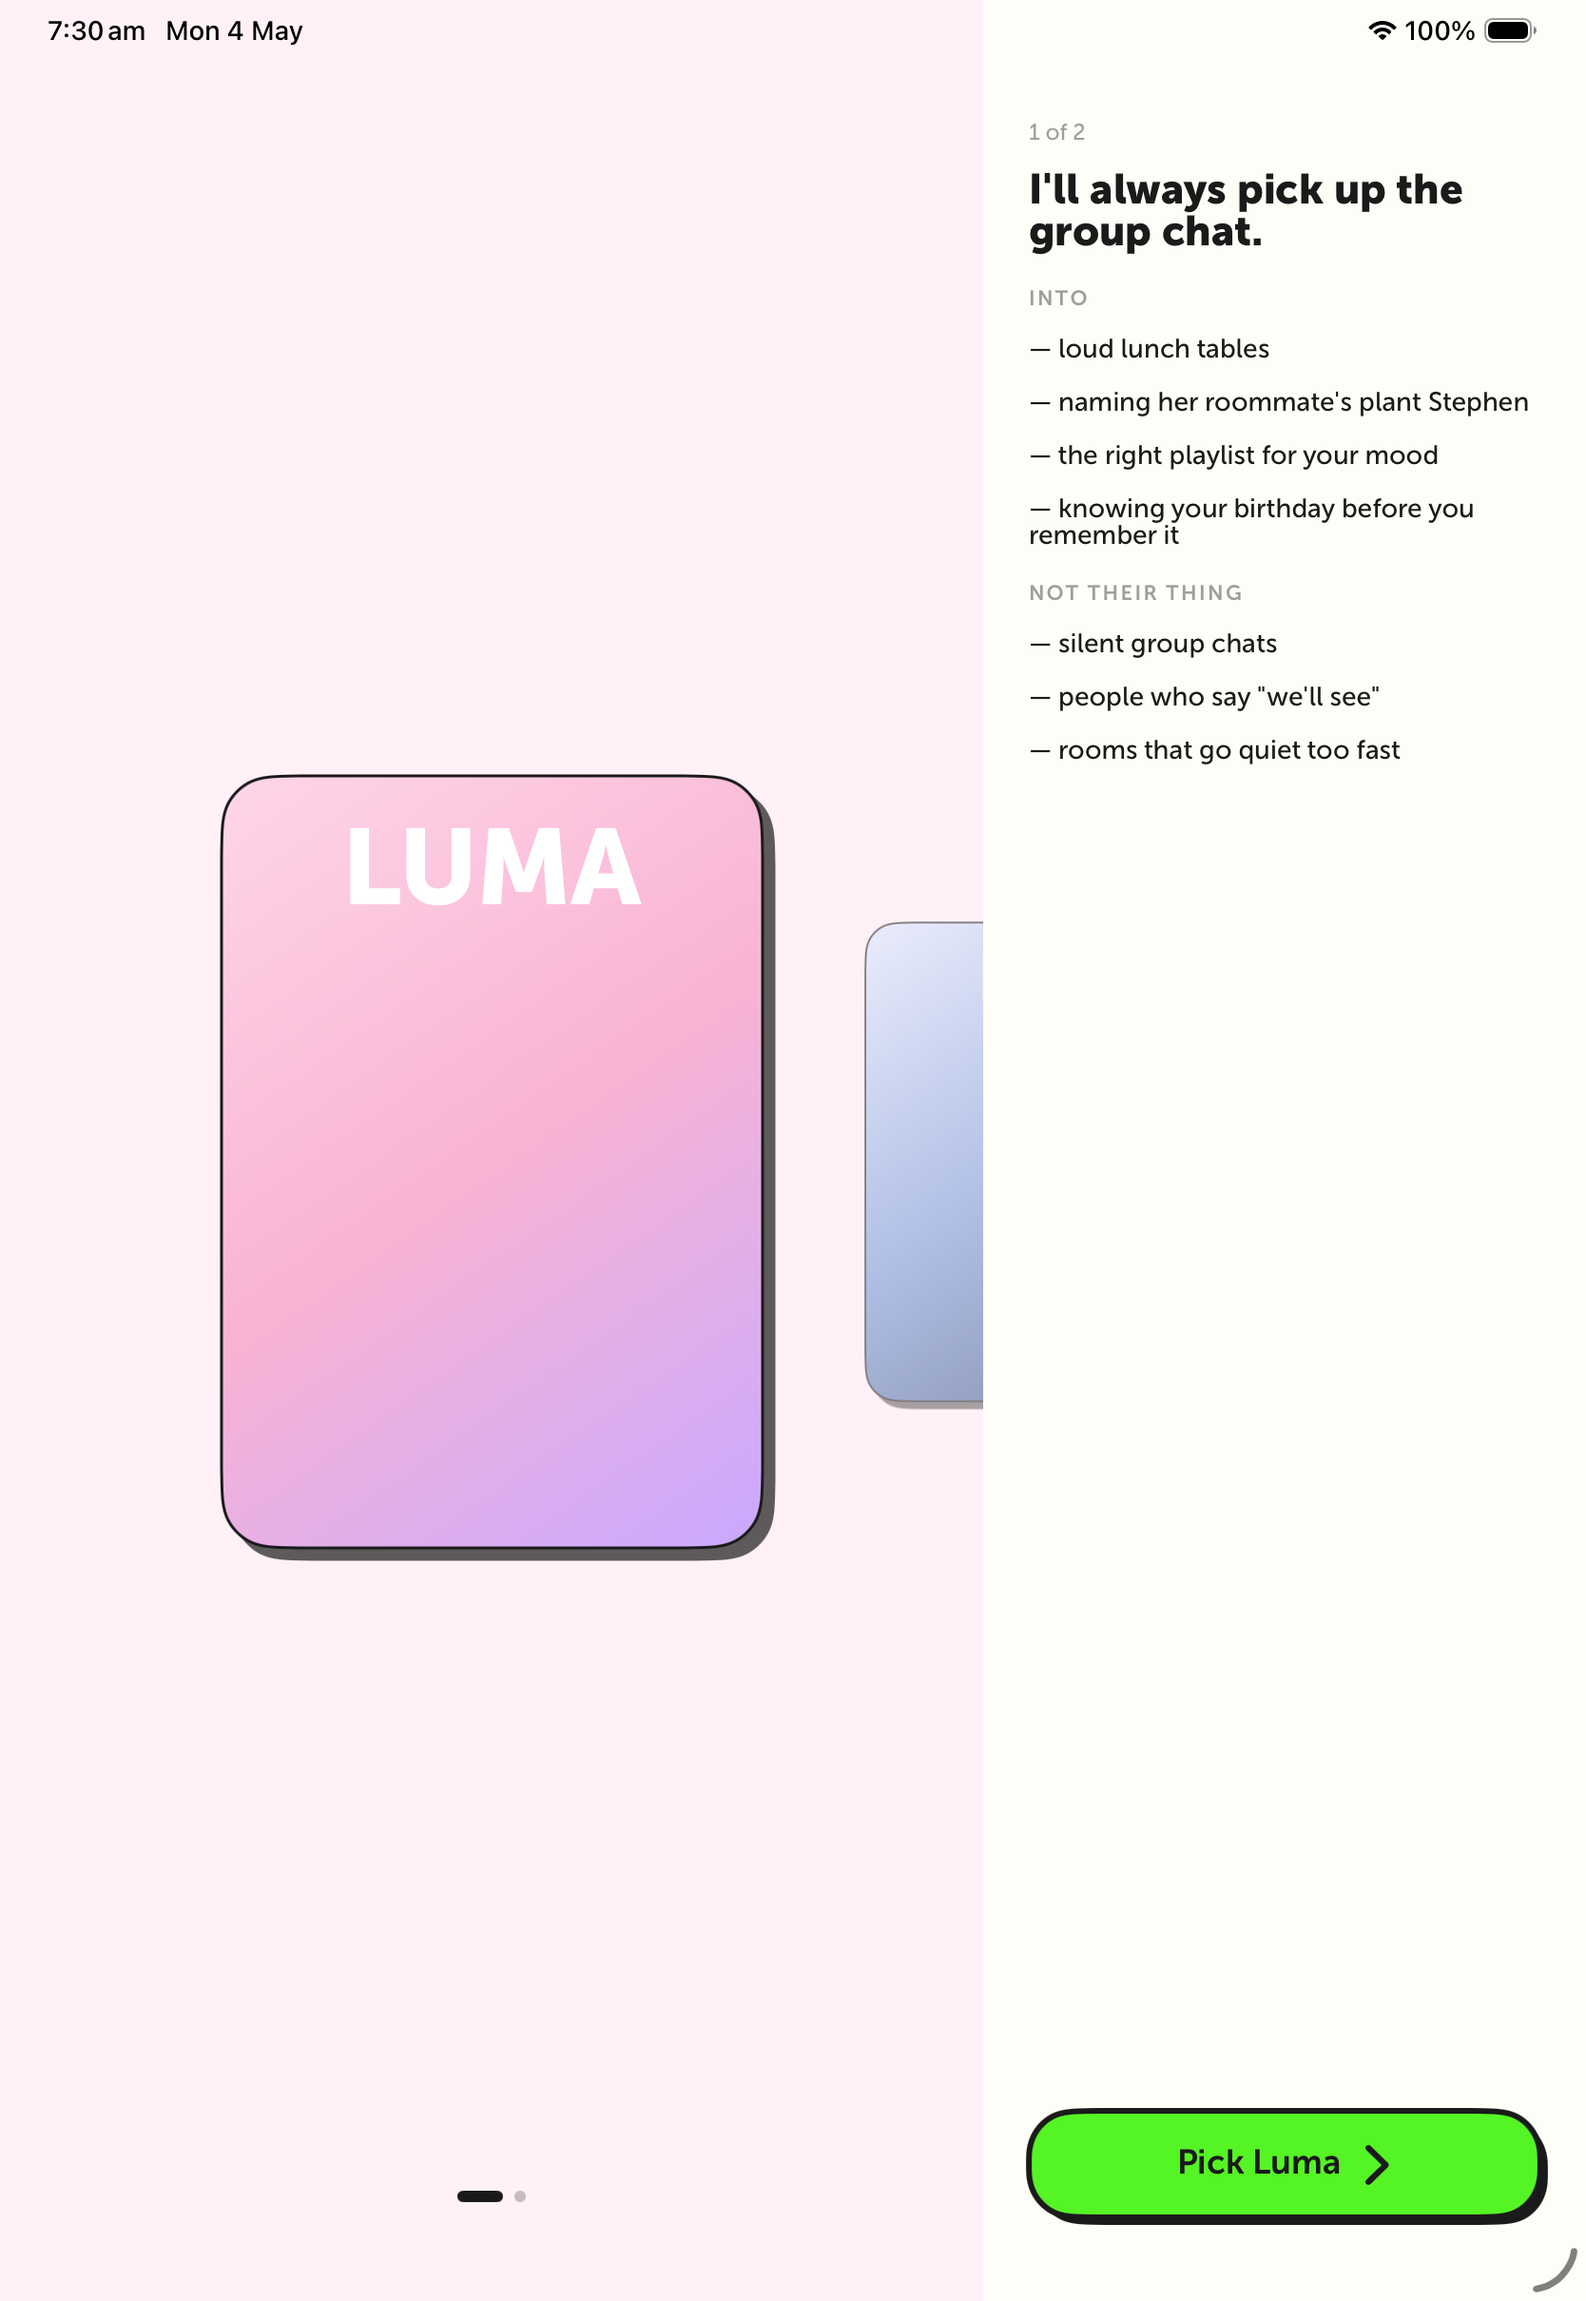
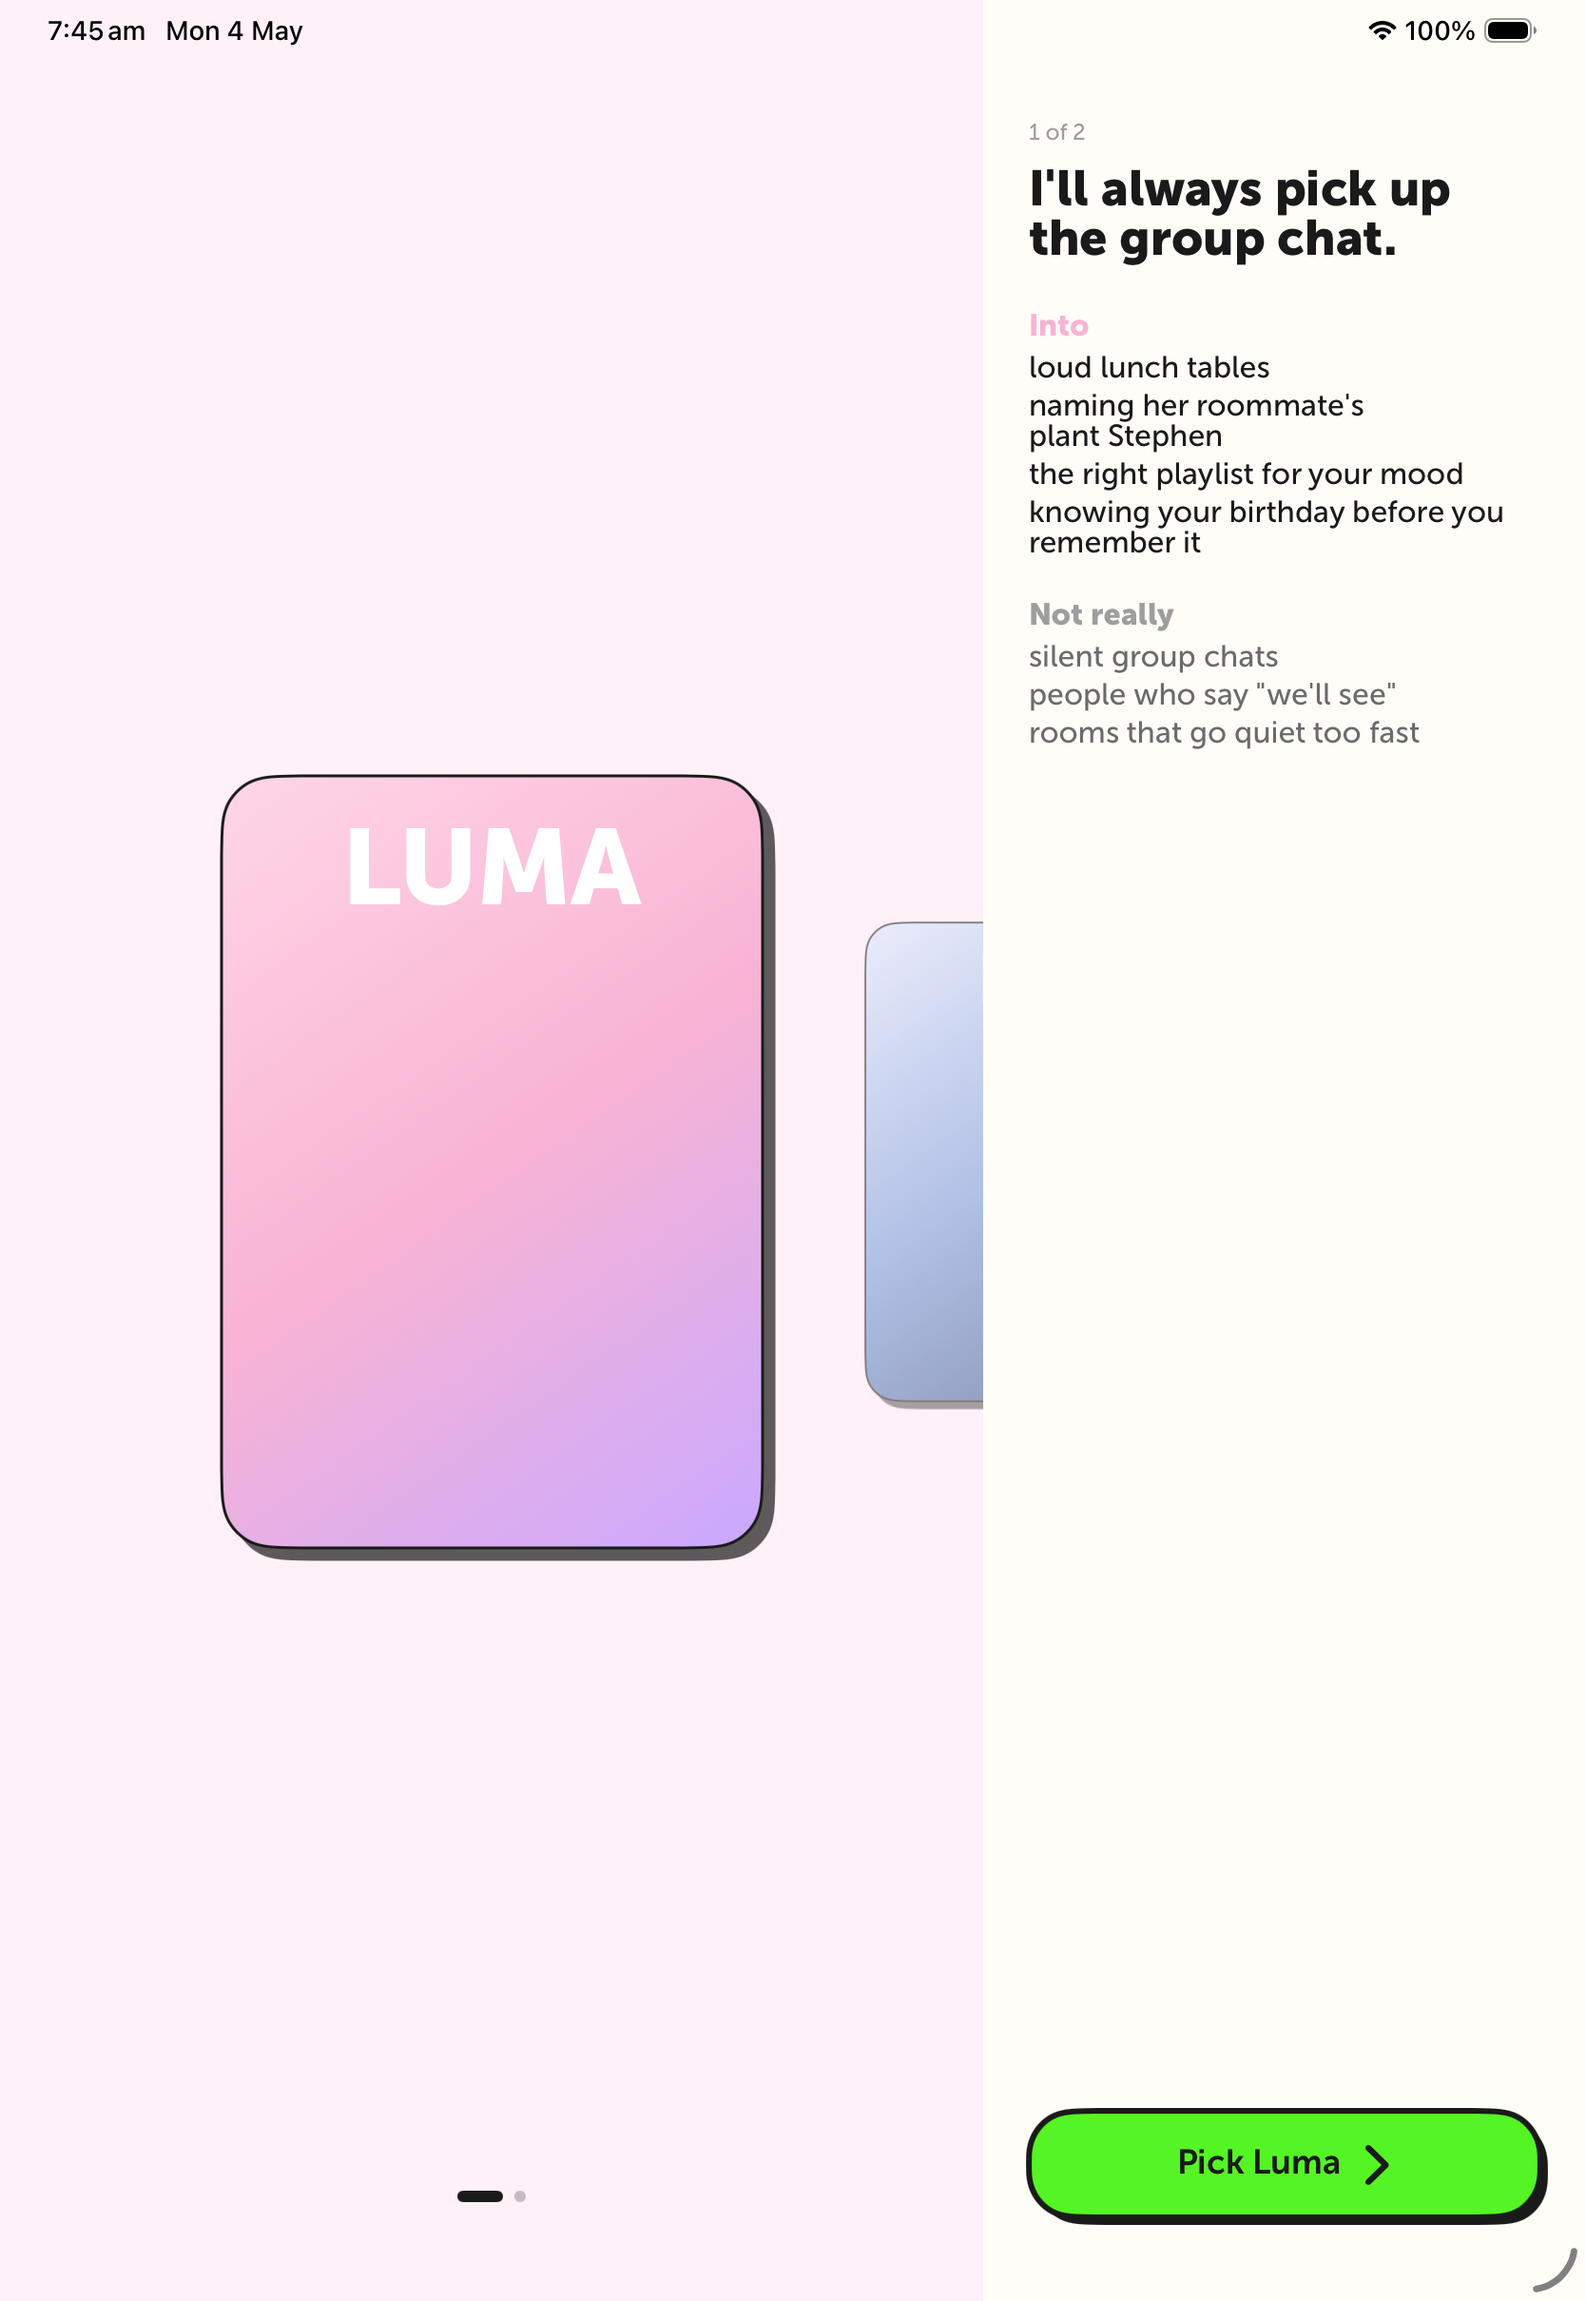
ALT-732: refresh shots — gradient cross-fade + fun lore typography

Changed region(s): [[0.6547, 0.062, 0.9353, 0.3409], [0.9041, 0.155, 0.9353, 0.186]]

diff --git a/character-picker/alt732-built-comparison.html b/character-picker/alt732-built-comparison.html
@@ -144,15 +144,15 @@
     <div class="frames">
       <div class="frame">
         <div class="frame-label">iPhone · compact</div>
-        <div class="frame-img"><img src="alt732-built-coverflow-iphone.png?v=4" alt="cover flow iPhone"></div>
+        <div class="frame-img"><img src="alt732-built-coverflow-iphone.png?v=5" alt="cover flow iPhone"></div>
       </div>
       <div class="frame">
         <div class="frame-label">iPad · portrait</div>
-        <div class="frame-img"><img src="alt732-built-coverflow-ipad-portrait.png?v=4" alt="cover flow iPad portrait"></div>
+        <div class="frame-img"><img src="alt732-built-coverflow-ipad-portrait.png?v=5" alt="cover flow iPad portrait"></div>
       </div>
       <div class="frame">
         <div class="frame-label">iPad · landscape (forced)</div>
-        <div class="frame-img"><img src="alt732-built-coverflow-ipad-landscape.png?v=4" alt="cover flow iPad landscape"></div>
+        <div class="frame-img"><img src="alt732-built-coverflow-ipad-landscape.png?v=5" alt="cover flow iPad landscape"></div>
       </div>
     </div>
 
@@ -180,15 +180,15 @@
     <div class="frames">
       <div class="frame">
         <div class="frame-label">iPhone · compact</div>
-        <div class="frame-img"><img src="alt732-built-herostatic-iphone.png?v=4" alt="hero static iPhone"></div>
+        <div class="frame-img"><img src="alt732-built-herostatic-iphone.png?v=5" alt="hero static iPhone"></div>
       </div>
       <div class="frame">
         <div class="frame-label">iPad · portrait</div>
-        <div class="frame-img"><img src="alt732-built-herostatic-ipad-portrait.png?v=4" alt="hero static iPad portrait"></div>
+        <div class="frame-img"><img src="alt732-built-herostatic-ipad-portrait.png?v=5" alt="hero static iPad portrait"></div>
       </div>
       <div class="frame">
         <div class="frame-label">iPad · landscape (forced)</div>
-        <div class="frame-img"><img src="alt732-built-herostatic-ipad-landscape.png?v=4" alt="hero static iPad landscape"></div>
+        <div class="frame-img"><img src="alt732-built-herostatic-ipad-landscape.png?v=5" alt="hero static iPad landscape"></div>
       </div>
     </div>
 
